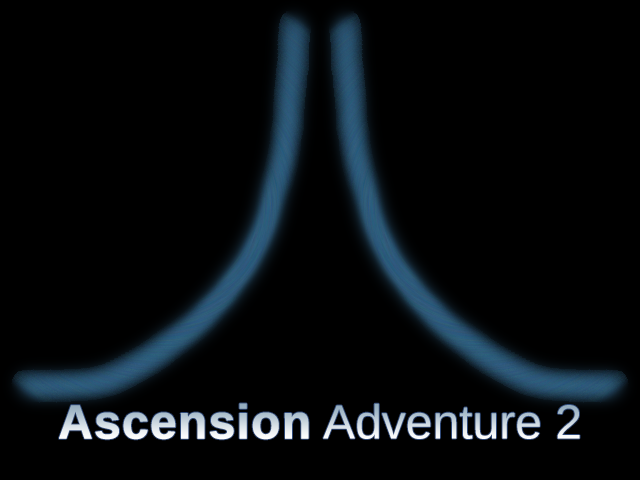
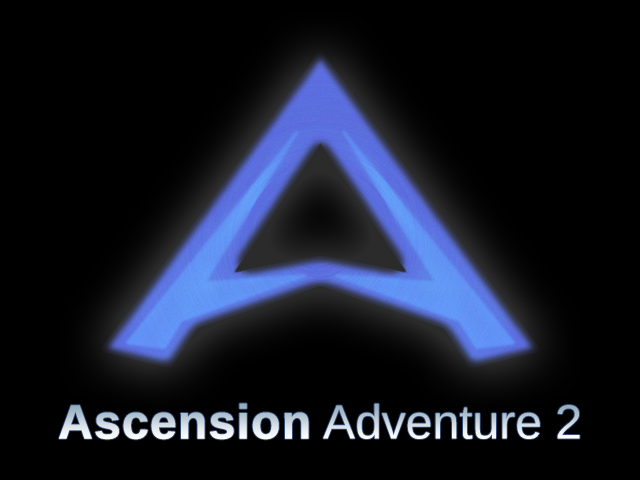
added new title screen and chased a few bugs

Changed region(s): [[0.0, 0.0312, 1.0, 0.8438]]

diff --git a/release/js/info.js b/release/js/info.js
@@ -364,9 +364,7 @@ function _info_cycleSpellLeft()
     var found = false;
     pointer++;
     while(!found)
-    {
-        console.log(pointer);
-        
+    {        
         if(pointer >= avatar.powers.length)
         {
             //oops, went past the end! loop back!

diff --git a/release/js/avatar.js b/release/js/avatar.js
@@ -145,7 +145,7 @@ function avatar_move(dx,dy) {
     avatar_save();
   }
   else {
-    sounds_play(SFX_BLOCKED);  
+    sounds_play(SFX_CLICK);  
   }
 }
 
